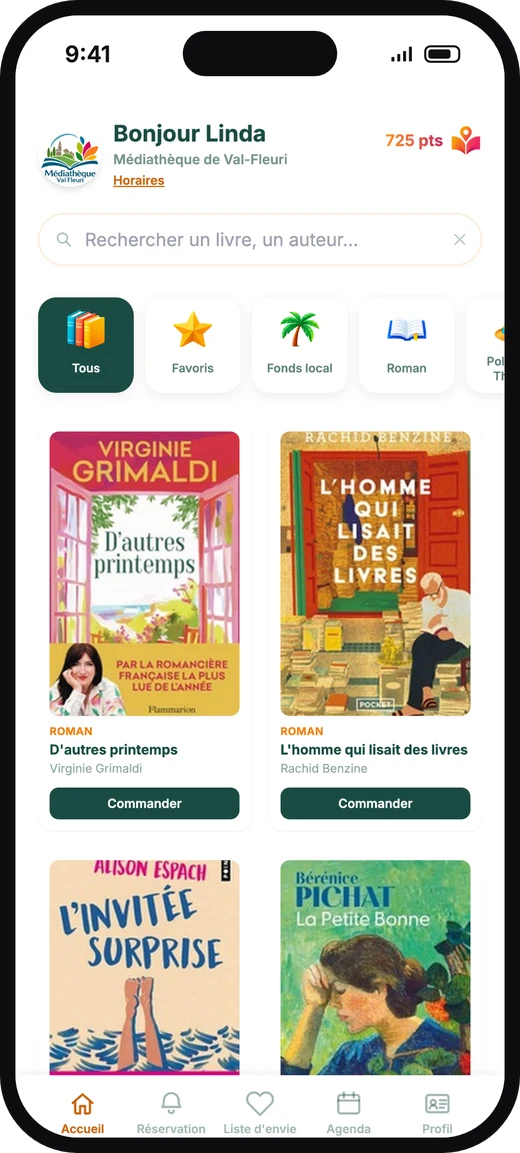
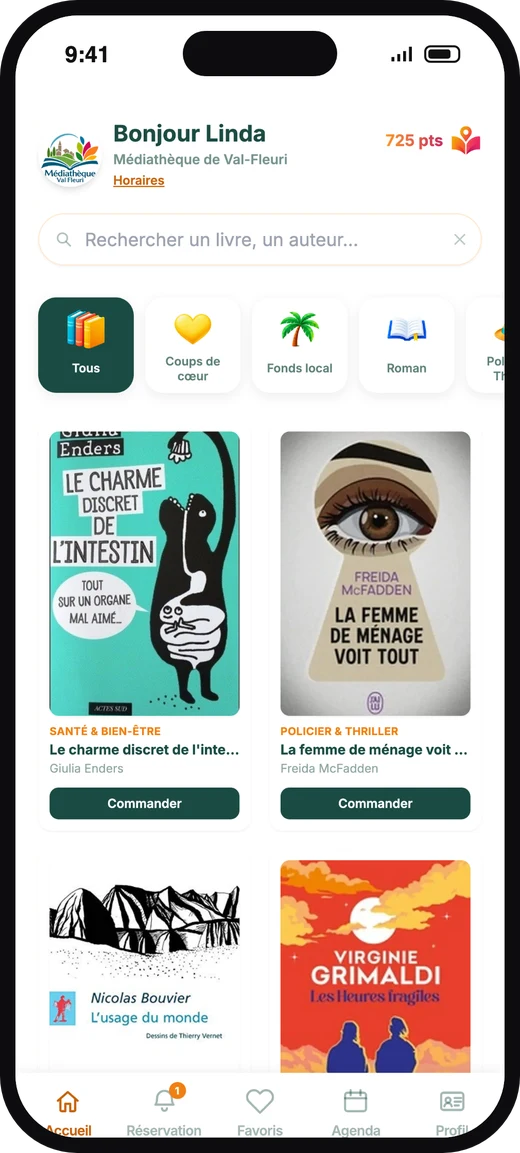
Accueil : capture de l'appli du 27/10 (coups de cœur, livres grand public) et parcours « Je commande mes livres »

diff --git a/index.html b/index.html
@@ -200,7 +200,7 @@
     <div class="section-container">
       <div class="split">
         <div class="phone-annotated">
-          <img class="phone-shot" src="img/accueil-appli-bligo.webp" alt="Capture d'écran de l'accueil de l'application BliGO : recherche, catégories et catalogue de livres de la Médiathèque Municipale avec le bouton Commander" width="260" height="577" loading="lazy" />
+          <img class="phone-shot" src="img/accueil-appli-bligo.webp" alt="Capture d'écran de l'accueil de l'application BliGO : recherche, catégories, coups de cœur et catalogue de livres de la Médiathèque Municipale avec le bouton Commander" width="260" height="577" loading="lazy" />
 
           <div class="annotate-labels">
             <div class="annotate-label annotate-label--tl" tabindex="0">
@@ -270,14 +270,14 @@
         </li>
         <li>
           <div>
-            <h3>Je réserve mes livres</h3>
-            <p>Je réserve jusqu'à 3 livres dans le catalogue de ma commune.</p>
+            <h3>Je commande mes livres</h3>
+            <p>Je commande jusqu'à 3 livres dans le catalogue de ma commune.</p>
           </div>
         </li>
         <li>
           <div>
             <h3>Je viens les chercher</h3>
-            <p>Je récupère mes livres réservés à la médiathèque dans les 48h (pièce d'identité et justificatif de domicile à présenter lors de ma première récupération, autorisation parentale en plus si je suis mineur·e).</p>
+            <p>Je récupère mes livres commandés à la médiathèque dans les 48h (pièce d'identité et justificatif de domicile à présenter lors de ma première récupération, autorisation parentale en plus si je suis mineur·e).</p>
           </div>
         </li>
         <li>
